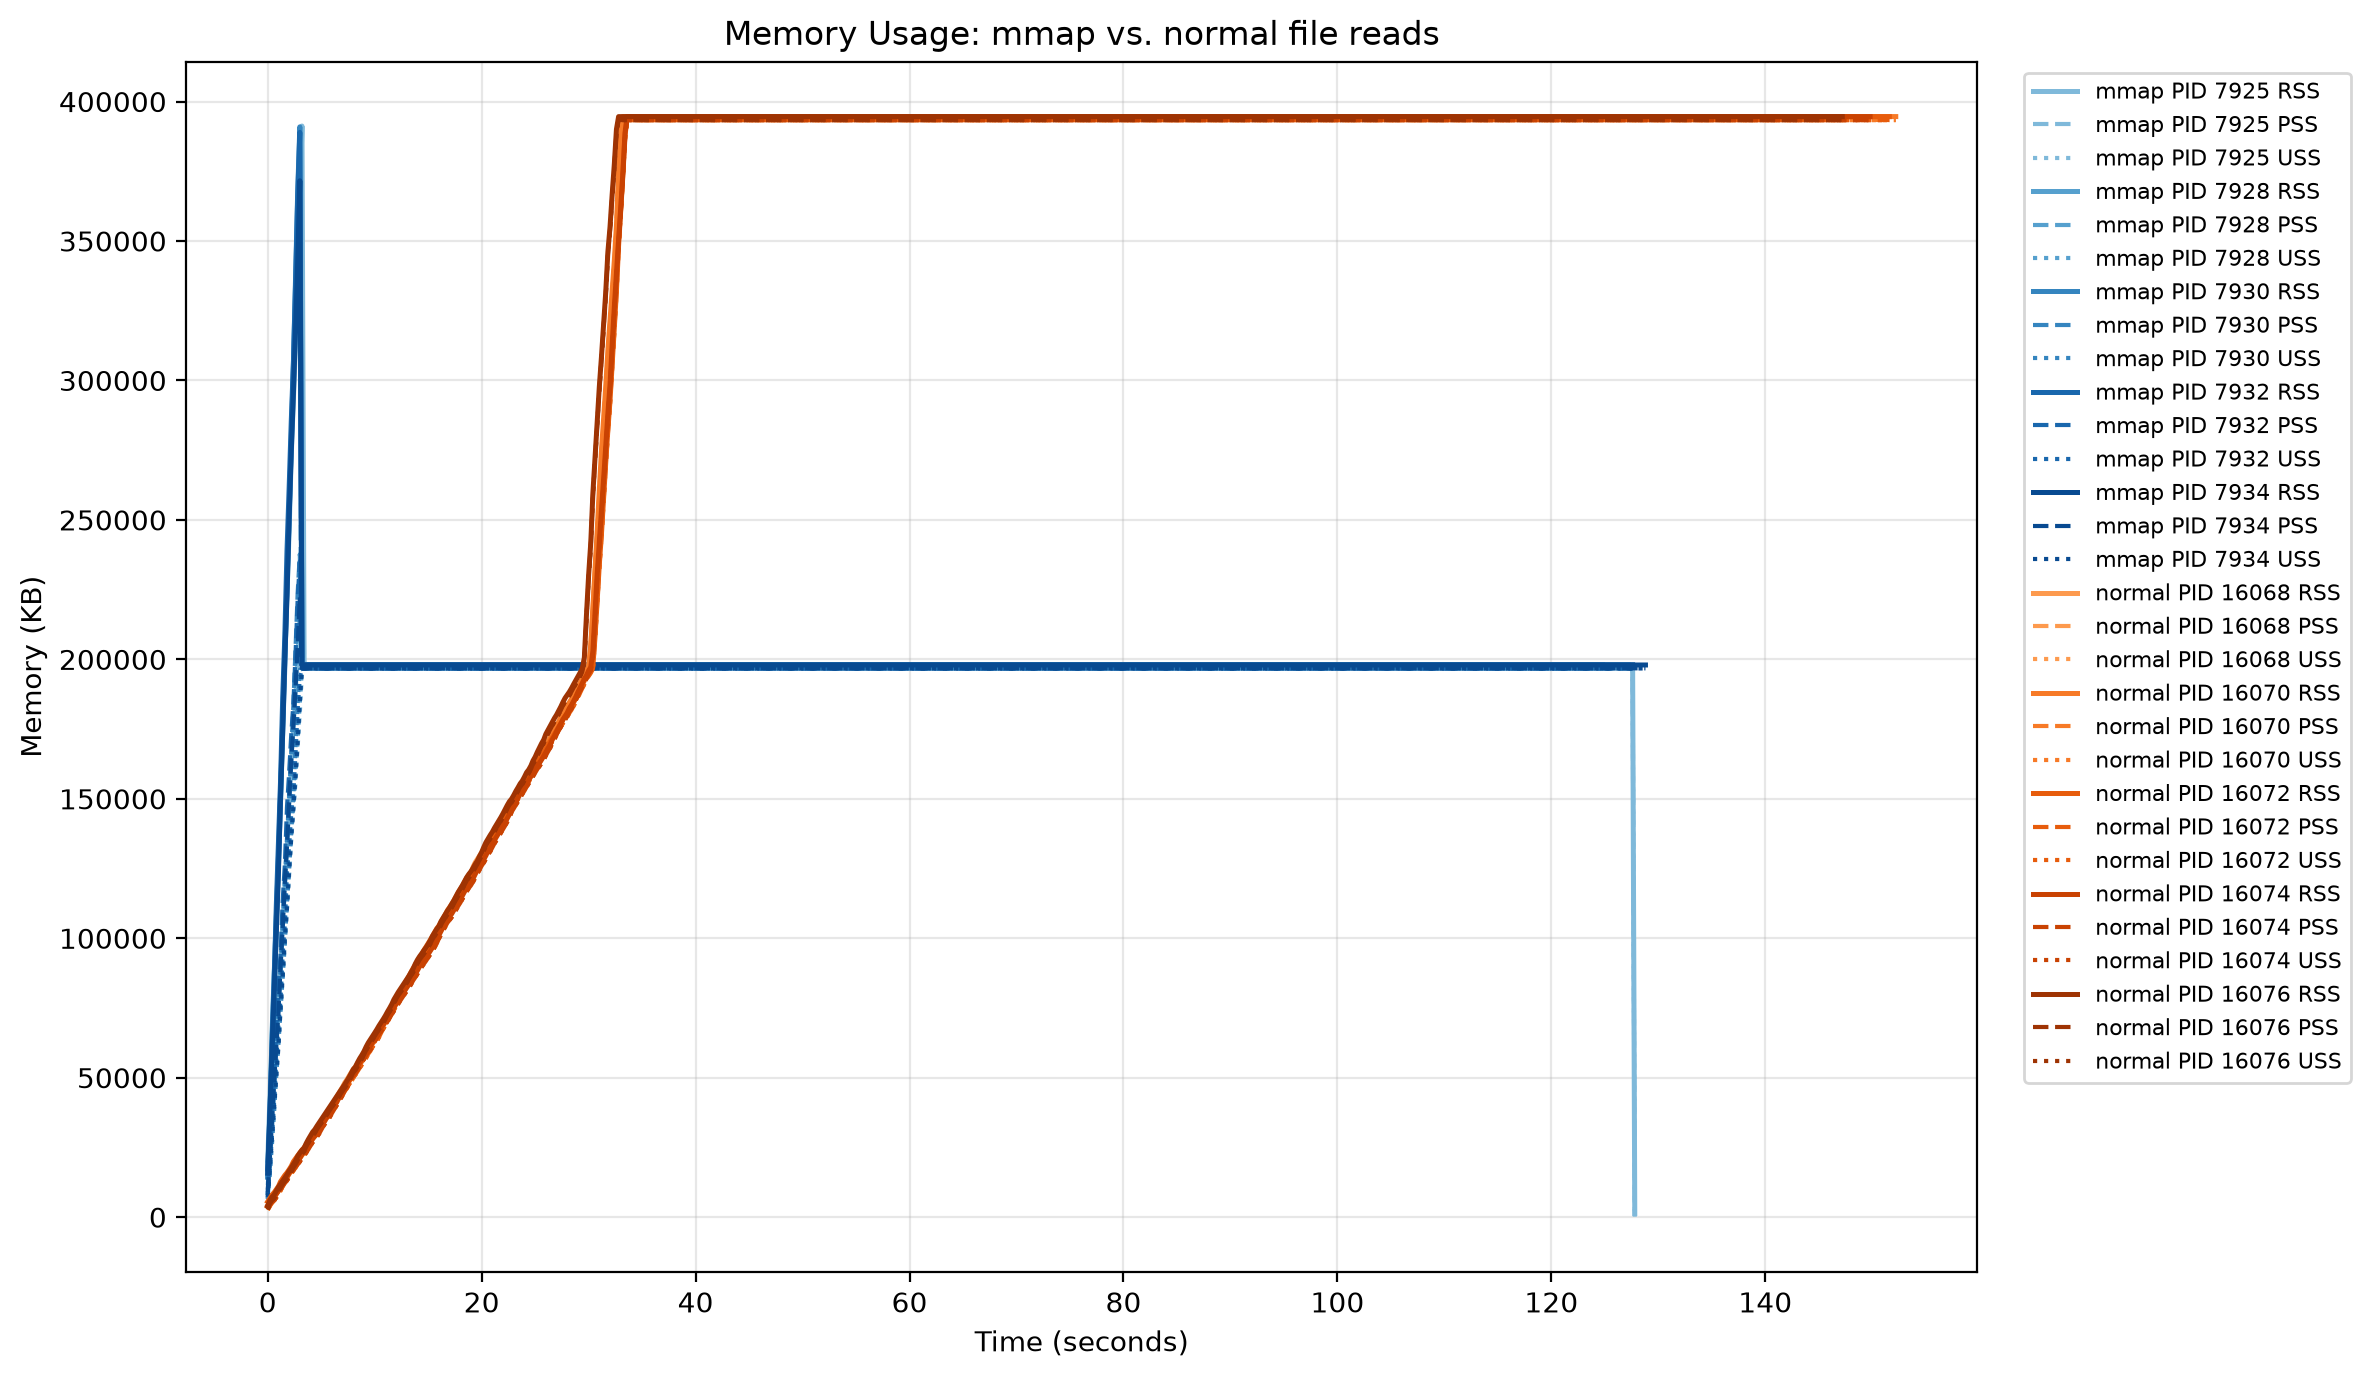
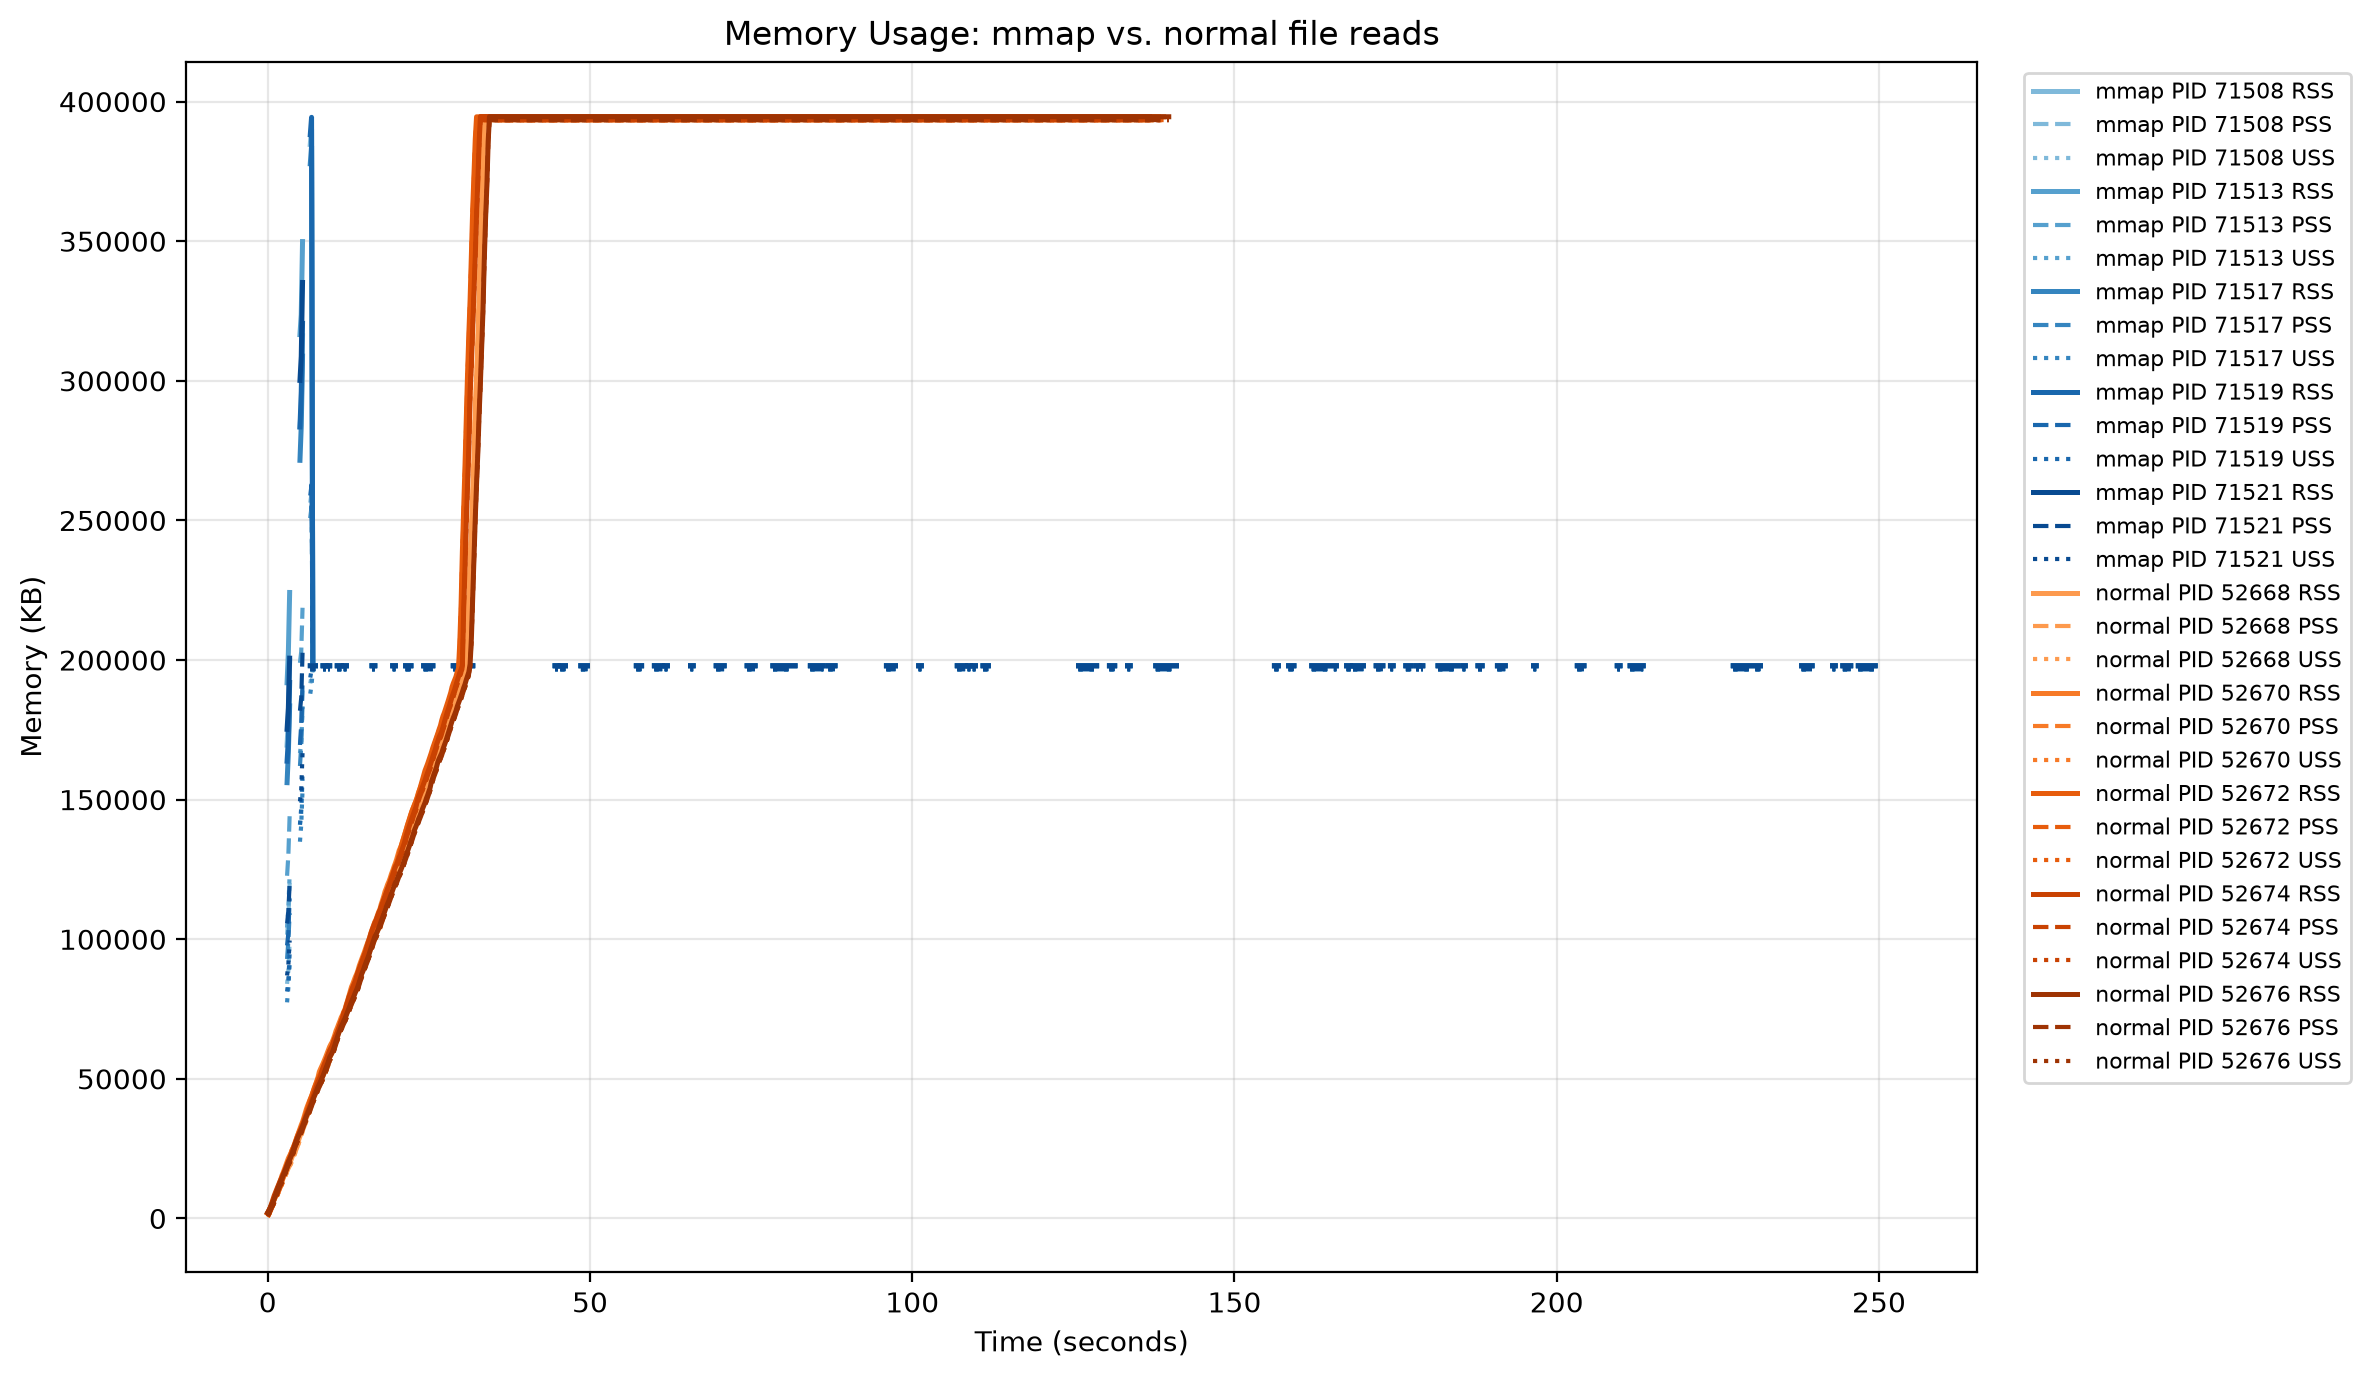
Fixed page fault

diff --git a/cli.c b/cli.c
@@ -12,18 +12,8 @@ int generate_pagefault() {
     image->pixels = malloc(sizeof(struct pixel) * image->width * image->height);
 
 
-    loadimage("images/sky.bmp",image);
-
-    printf("Saving image to mmap...\n");
+    loadimage("sky.bmp",image);
     saveimage_mmap("test.bin", image);
-    printf("WTF");
-
-   // struct image* out = malloc(sizeof(struct image));
-   // out->width = 640;
-   // out->height = 426;
-
-    printf("Loading image from mmap...\n");
-
     int mapping_size = sizeof(struct image) + image->width * image->height * sizeof(struct pixel);
 
 	int fd = open("test.bin", O_RDONLY);
@@ -34,8 +24,9 @@ int generate_pagefault() {
 
 	void *mapping = mmap(NULL, mapping_size, PROT_READ, MAP_SHARED, fd, 0);
 
-    // Should trigger major page fault
-    printf("mapping pixels: %p\n", ((char *)mapping + sizeof(struct image)));
+
+    // Force the OS to evict the file from Page Cache to guarantee disk I/O
+    posix_fadvise(fd, 0, mapping_size, POSIX_FADV_DONTNEED);
 
     // Clean up
     munmap(mapping, mapping_size);
@@ -97,13 +88,6 @@ int main(int argc, char** argv){
         free(img);
         return -1;
     }
-    /*
-    int load_result = loadimage((char *)input_filepath, img);
-    if (load_result != 0 || img->pixels == NULL) {
-        printf("Failed to load image: %s\n", input_filepath);
-        free(img);
-        return -1;      
-    }*/
     
     if (strcmp(mode, "kernel") == 0) {
         int kernel[3][3] = {{1,1,1},{1,1,1},{1,1,1}};
